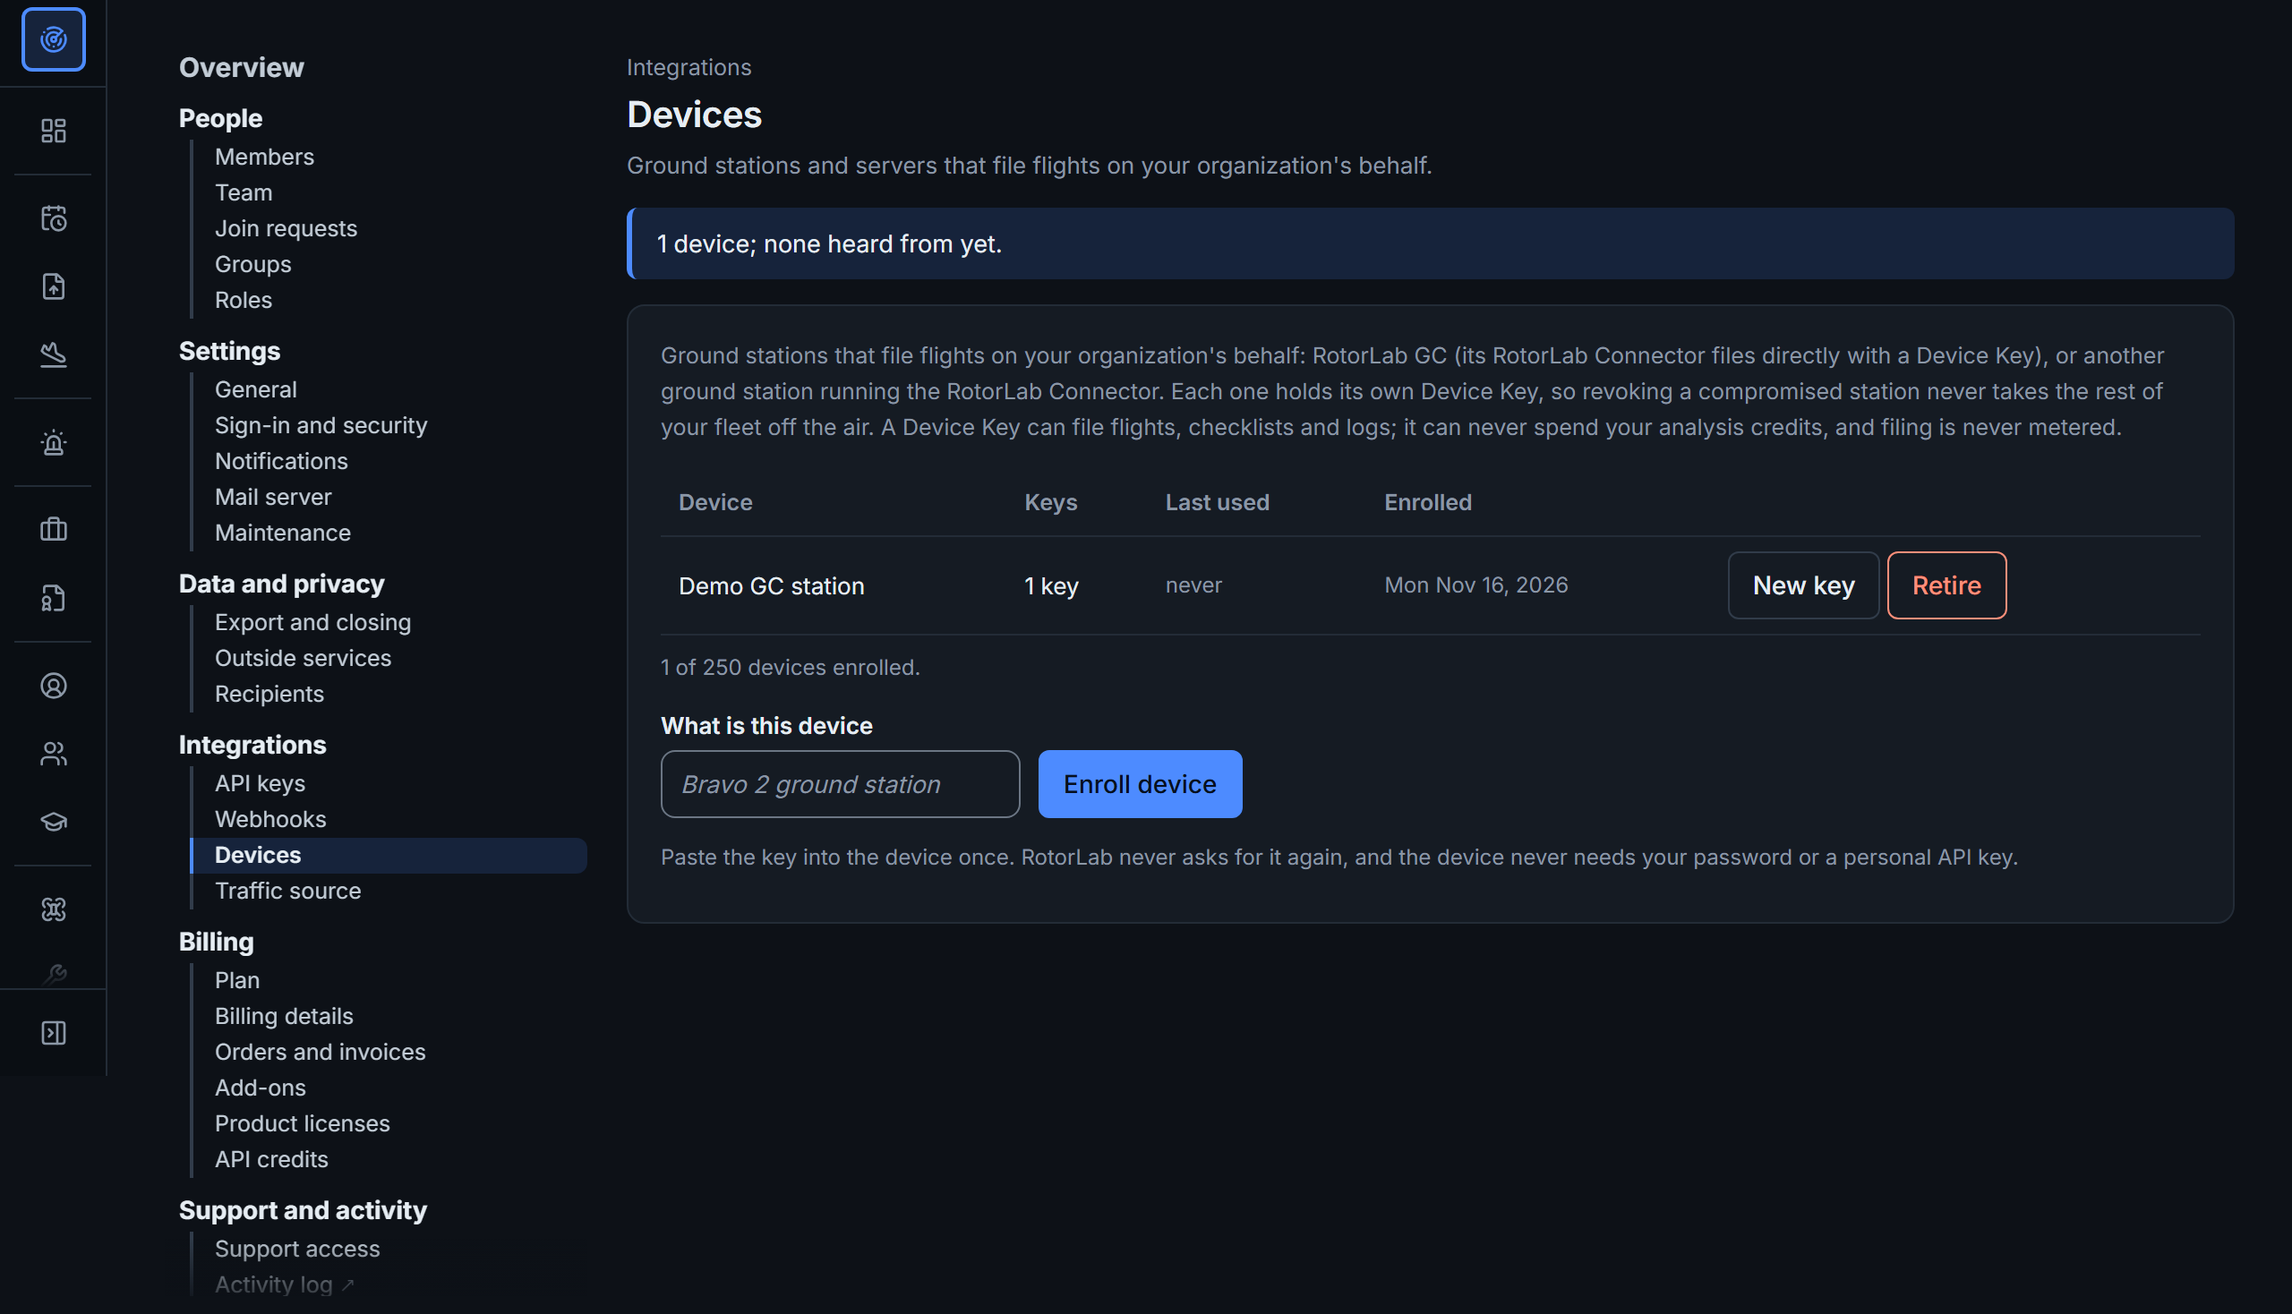
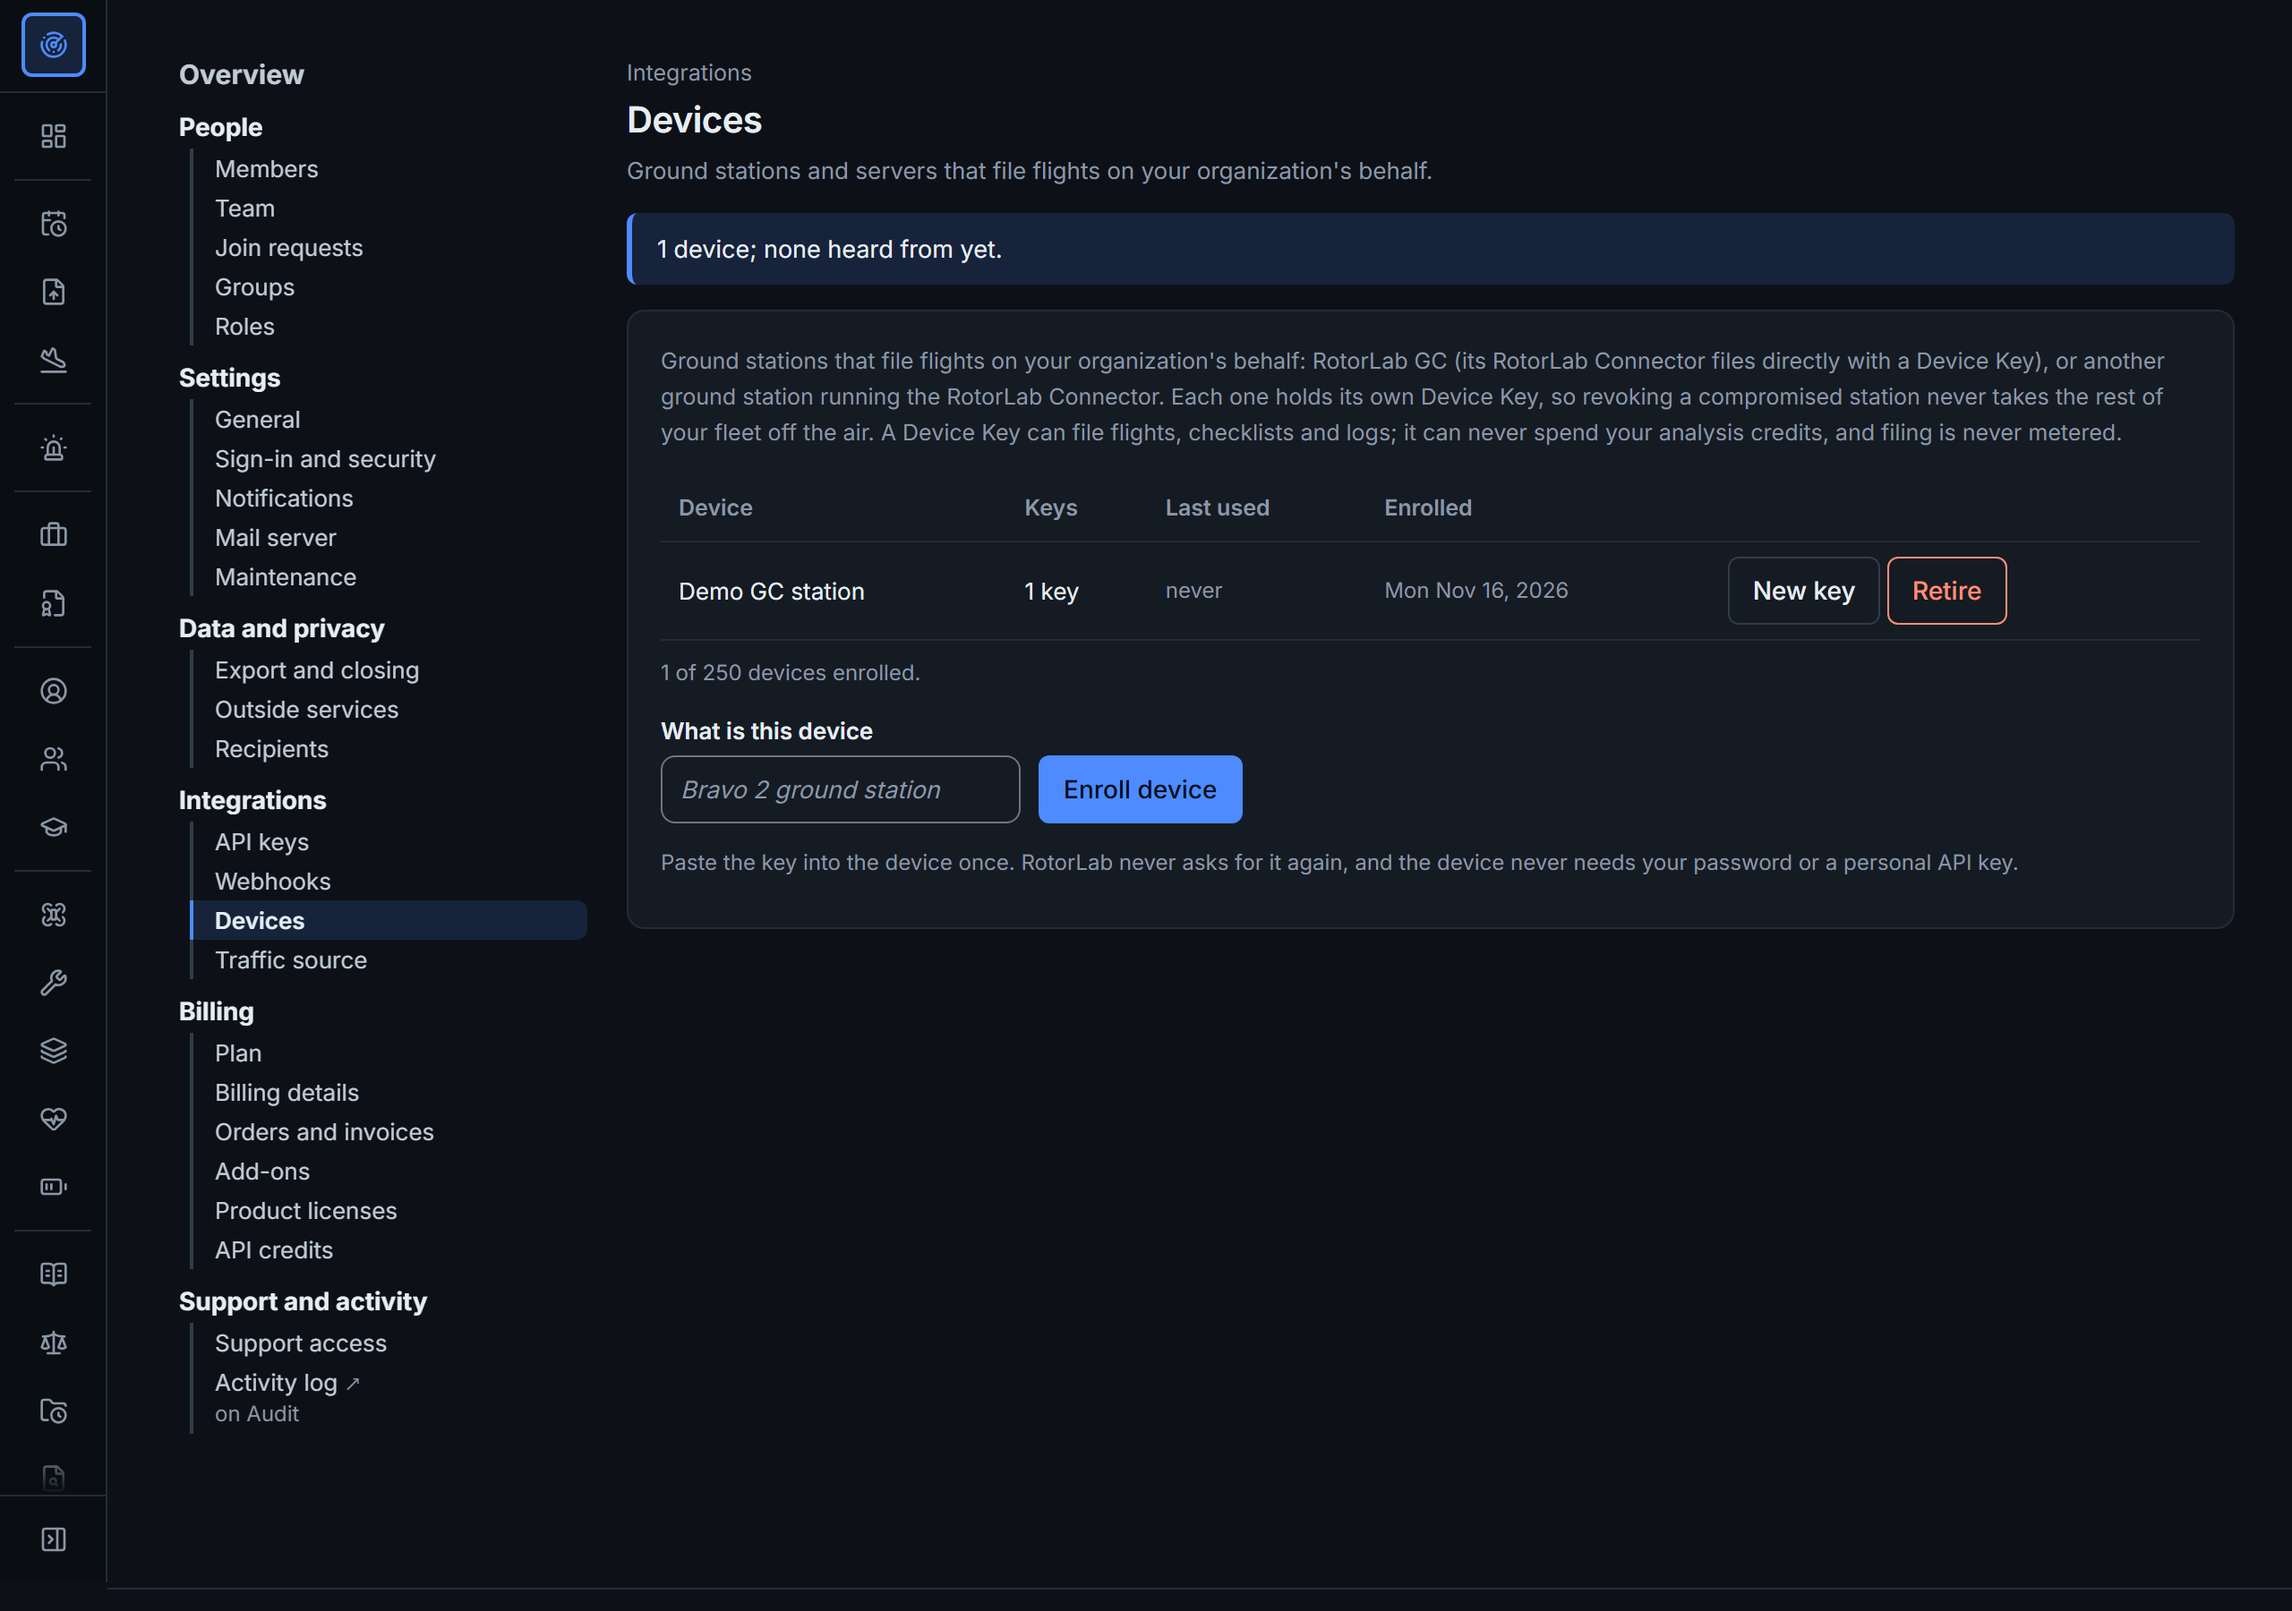
README: fly view hero, demo flight record and full Devices page
- Fly view of the demo aircraft in SITL over a public sports field
  (imagery: Esri), light and dark.
- A demo flight record in RotorLab, filed by uploading its log, not by GC.
- Organization, Integrations, Devices with the whole sidebar.

diff --git a/README.md b/README.md
@@ -26,6 +26,14 @@ RotorLab GC is a full MAVLink ground control station for ArduPilot and PX4 aircr
 
 GC records and warns. It never authorizes a flight, and the decision to fly stays with your pilot and your organization.
 
+<p align="center">
+  <picture>
+    <source media="(prefers-color-scheme: dark)" srcset="docs/images/gc-fly-view-dark.png">
+    <img src="docs/images/gc-fly-view-light.png" width="900" alt="The RotorLab GC fly view with a simulated aircraft flying in Guided mode at 10.0 ft over a sports field in a park, on satellite imagery. The top bar shows Flying, Guided, satellite count and battery; Land, Return, Pause and Actions sit on the left, the video record button on the right, and a compass and the altitude, speed and flight time readout at the bottom right.">
+  </picture>
+  <br><sub>The fly view with the demo aircraft DEMO-01 in a simulator (SITL), hovering in Guided mode over a public sports field. Imagery: Esri.</sub>
+</p>
+
 ## Contents
 
 - [Who it is for](#who-it-is-for)
@@ -93,6 +101,16 @@ Turn on the RotorLab Connector with a Device Key from your organization, and eac
 </p>
 
 In RotorLab, each flight sits on its aircraft's record. A flight GC files arrives there with its log, its checklist runs, its crew and its remote pilot in command periods.
+
+This is what a flight record looks like in RotorLab. The demo flight below was filed by uploading its log in RotorLab, not by GC:
+
+<p align="center">
+  <picture>
+    <source media="(prefers-color-scheme: dark)" srcset="docs/images/rotorlab-flight-record-dark.png">
+    <img src="docs/images/rotorlab-flight-record-light.png" width="720" alt="A RotorLab flight record for the demo aircraft DEMO-01 flown by Alex Rivera at Demo Field, marked Filed from a log: 5 min flight time, 1 landing, no log findings and Log analyzed. What needs attention says No purpose was filed. The log file section reads Data quality: clean and Read from ArduCopter V4.5.7. The Remote pilot in command section says No operating basis is recorded for this flight and Alex Rivera was recorded as remote pilot in command for the whole flight.">
+  </picture>
+  <br><sub>A demo flight record in RotorLab, filed by uploading its log, not by GC. Fictional demo organization, pilot and aircraft.</sub>
+</p>
 
 ### Remote pilot in command, on record
 
